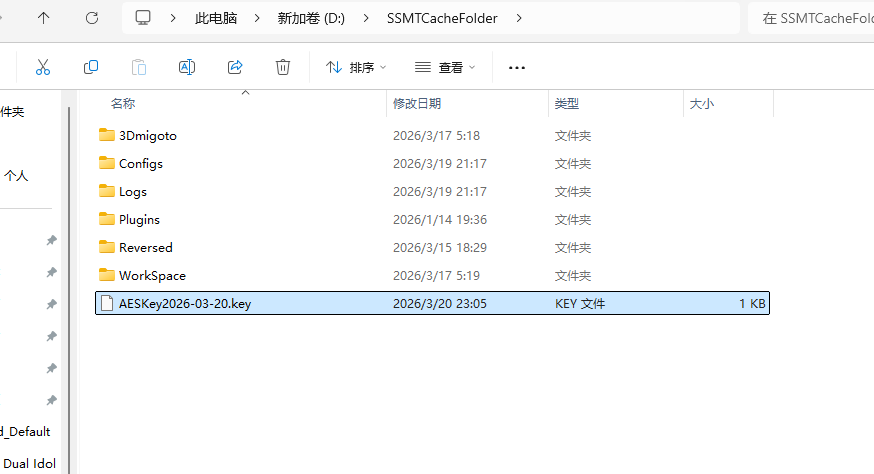
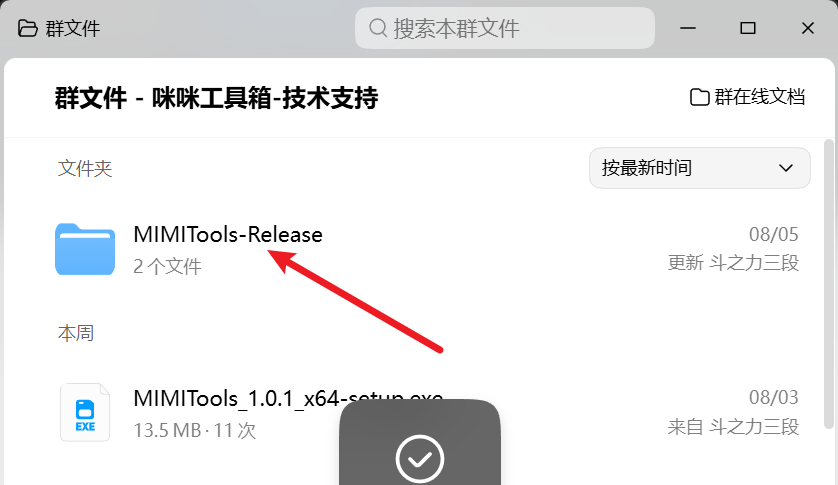
更新如何激活MMT

diff --git a/docs/newbie/reverse/HowToActivateAutoReverse/HowToActivateAutoReverse.md b/docs/newbie/reverse/HowToActivateAutoReverse/HowToActivateAutoReverse.md
@@ -1,27 +1,31 @@
-# 如何激活自动逆向功能
+# 如何激活MMT所有功能
 
 
 ## 生成密钥文件并激活
 
-首先，切换到SSMT的设置页面，下拉到最下方，点击生成密钥文件按钮：
-
-![alt text](image.png)
-
-点击后自动弹出一个文件夹，并选中了生成的.key文件：
+赞助完成后，在爱发电的自动回复中申请加入 `咪咪工具箱-技术支持` QQ群。
 
 ![alt text](image-1.png)
 
-此时你把这个key文件发给我，然后我就可以使用这个key文件为你激活SSMT了
+在群文件中下载MMT并安装后，进行后续步骤
 
-当我激活好之后，我会把激活好的SSMT的安装包发给你，你安装之后就可以使用了
+首先，切换到MMT的设置页面，下拉到最下方，点击生成密钥文件按钮：
+
+![alt text](image-2.png)
+
+点击后自动弹出一个文件夹，并选中了生成的.key文件：
+
+![alt text](image.png)
+
+此时你把这个key文件发给我，然后我就可以使用这个key文件为你激活MMT了
+
+当我激活好之后，我会把激活好的MMT的安装包发给你，你安装之后就可以使用了
 
 ## 如何更新新版本
 
-新版本SSMT会自动附带你的激活，所以不用担心版本更新后无法使用的问题，后续更新SSMT正常更新即可。
+新版本MMT会自动附带你的激活，所以不用担心版本更新后无法使用的问题，后续更新MMT正常更新即可。
 
 ## 技术支持
 
-赞助长期技术支持计划后记得加入附带的 `SSMT长期技术支持LTS` QQ群。
-
-在使用SSMT4的Mod逆向功能过程中，遇到任何无法解决的问题或违反直觉的设计，记得反馈给我。
+在使用MMT4的Mod逆向功能过程中，遇到任何无法解决的问题或违反直觉的设计，记得反馈给我。
 
